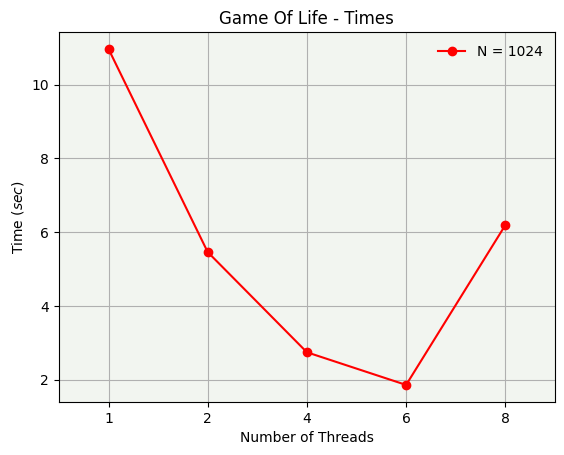
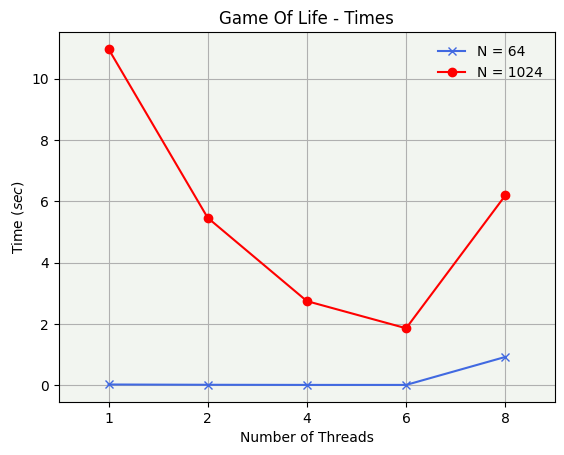
Added plots for FW, fixed plots for GameOfLife, fixed make_and_run.sh, makefile

diff --git a/1st_exec/src/Floyd_Warshall/plot_metrics.py b/1st_exec/src/Floyd_Warshall/plot_metrics.py
@@ -1,0 +1,117 @@
+#!/bin/python3
+
+import sys
+import os
+import numpy as np
+import matplotlib
+matplotlib.use('Agg')
+import matplotlib.pyplot as plt
+
+if len(sys.argv) < 2:
+    print("Usage: plot_metrics.py <input_directory_path>")
+    exit(-1)
+
+outDir = sys.argv[1]
+threads_confs = [1, 2, 4, 8, 16, 32, 64]
+array_sizes = [1024, 2048, 4096]
+block_size = [32, 64, 128, 256]
+implementations = {"fw": "", "fw_sr": "Recursive", "fw_tiled": "Tiled"}
+name = implementations[outDir.split("/")[1]]
+
+times = {}
+speedups = {}
+for n in array_sizes:
+    times[n] = {}
+    speedups[n] = {}
+    for b in block_size:
+        times[n][b] = []
+        speedups[n][b] = []
+
+
+
+for filename in os.listdir(outDir):
+    with open(os.path.join(outDir, filename), 'r') as fp:
+        line = fp.readline()
+
+        while line:
+            if line != "\n":
+                tokens = line.split(",")
+                threads = int(tokens[0].split(" ")[1])
+                array_size = int(tokens[1])
+                time = float(tokens[len(tokens)-1])
+                block = int(tokens[2])
+                # print (threads, array_size, block, time)
+                times[array_size][block].append(time)
+
+            line = fp.readline()
+
+for arr_size, b_size in times.items():
+    for key, val in b_size.items():
+        speedups[arr_size][key] = [val[0]/x for x in val]
+# print ("times: ", times)
+# print ("speedups: ", speedups)
+
+
+markers = ['x', 'o', '+', '*']
+colors = ["royalblue", "red", "darkgreen", "pink"]
+
+## PLOT TIMES
+x_Axis = np.array(threads_confs)
+y_Axis = times
+# print("x_Axis: ", x_Axis)
+# print("y_Axis: ", y_Axis)
+x_ticks = np.arange(0, len(x_Axis), 1)
+
+for tuple in y_Axis.items():
+    # print ("tuple[1] = ", tuple[1])
+    i = 0
+    fig, ax = plt.subplots()
+
+    for b_size, val in tuple[1].items():
+        # print("b_size: ", b_size, ", val:", val)
+
+        ax.grid(True)
+        ax.set_facecolor('#f2f5f0')
+        ax.set_xlabel("Number of Threads")
+        ax.set_ylabel("Time ($sec$)")
+        ax.set_xlim(-0.5, len(x_Axis) - 0.5)
+        ax.xaxis.set_ticks(x_ticks)
+        ax.set_xticklabels(x_Axis, rotation=0)
+
+        ax.plot(x_ticks, val, label="B = " + str(b_size), color=colors[i%len(colors)], marker=markers[i%len(markers)])
+        i = i + 1
+
+    ax.legend(frameon=True)
+    plt.title("Floyd-Warshall " + name + "- Time - Array Size: " + str(tuple[0]))
+    plt.savefig("plot_time_" + str(tuple[0]) + ".png",bbox_inches="tight")
+
+
+## PLOT SPEEDUP
+x_Axis = np.array(threads_confs)
+y_Axis = speedups
+# print("x_Axis: ", x_Axis)
+# print("y_Axis: ", y_Axis)
+x_ticks = np.arange(0, len(x_Axis), 1)
+
+for tuple in y_Axis.items():
+    # print ("tuple[1] = ", tuple[1])
+    i = 0
+    fig, ax = plt.subplots()
+
+    for b_size, val in tuple[1].items():
+        # print("b_size: ", b_size, ", val:", val)
+
+        ax.grid(True)
+        ax.set_facecolor('#f2f5f0')
+        ax.set_xlabel("Number of Threads")
+        ax.set_ylabel("Speedup (Serial Time / Parallel Time)")
+        ax.set_xlim(-0.5, len(x_Axis) - 0.5)
+        ax.xaxis.set_ticks(x_ticks)
+        ax.set_xticklabels(x_Axis, rotation=0)
+
+        ax.plot(x_ticks, val, label="B = " + str(b_size), color=colors[i%len(colors)], marker=markers[i%len(markers)])
+        i = i + 1
+
+    ax.legend(frameon=True)
+    plt.title("Floyd-Warshall " + name + " - Speedup - Array Size: " + str(tuple[0]))
+    plt.savefig("plot_speedup_" + str(tuple[0]) + ".png",bbox_inches="tight")

diff --git a/1st_exec/src/Floyd_Warshall/plot_metrics_fw.py b/1st_exec/src/Floyd_Warshall/plot_metrics_fw.py
@@ -11,14 +11,14 @@ if len(sys.argv) < 2:
     exit(-1)
 
 outFile = sys.argv[1]
-threads_confs = [1, 2, 4, 6, 8]
-array_sizes = [64, 1024, 4096]
+threads_confs = [1, 2, 4, 8, 16, 32, 64]
+array_sizes = [1024, 2048, 4096]
 
 times = {}
 speedups = {}
-for x in array_sizes:
-    times[x] = []
-    speedups[x] = []
+for n in array_sizes:
+    times[n] = []
+    speedups[n] = []
 
 
 with open(outFile) as fp:
@@ -26,19 +26,20 @@ with open(outFile) as fp:
 
     while line:
         if line != "\n":
-            tokens = line.split(" ")
-            threads = int(tokens[1])
-            array_size = int(tokens[4])
-            time = float(tokens[8])
-            # print (threads, array_size, time)
+            tokens = line.split(",")
+            threads = int(tokens[0].split(" ")[1])
+            array_size = int(tokens[1])
+            time = float(tokens[len(tokens)-1])
             times[array_size].append(time)
+            # print (threads, array_size, time)
 
         line = fp.readline()
 
 for key, val in times.items():
     speedups[key] = [val[0]/x for x in val]
-print ("times: ", times)
-print ("speedups: ", speedups)
+
+# print ("times: ", times)
+# print ("speedups: ", speedups)
 
 
 markers = ['x', 'o', '+']
@@ -47,14 +48,14 @@ colors = ["royalblue", "red", "darkgreen"]
 ## PLOT TIMES
 x_Axis = np.array(threads_confs)
 y_Axis = times
-print("x_Axis: ", x_Axis)
-print("y_Axis: ", y_Axis)
+# print("x_Axis: ", x_Axis)
+# print("y_Axis: ", y_Axis)
 
 x_ticks = np.arange(0, len(x_Axis), 1)
 i = 0
-fig, ax = plt.subplots()
-for tuple in y_Axis.items():
 
+for tuple in y_Axis.items():
+    fig, ax = plt.subplots()
     ax.grid(True)
     ax.set_facecolor('#f2f5f0')
     ax.set_xlabel("Number of Threads")
@@ -66,18 +67,18 @@ for tuple in y_Axis.items():
     # print(tuple)
     ax.plot(x_ticks, tuple[1], label="N = " + str(tuple[0]), color=colors[i%len(colors)], marker=markers[i%len(markers)])
     i = i + 1
-    ax.legend(frameon=False)
-    plt.title("Game Of Life - Times")
+    ax.legend(frameon=True)
+    plt.title("Floyd-Warshall Classic - Time -  Array Size: " + str(tuple[0]))
     plt.savefig("plot_time_" + str(tuple[0]) + ".png",bbox_inches="tight")
 
 
 
 
-## PLOT SPEEDUP
+# ## PLOT SPEEDUP
 x_Axis = np.array(threads_confs)
 y_Axis = speedups
-print("x_Axis: ", x_Axis)
-print("y_Axis: ", y_Axis)
+# print("x_Axis: ", x_Axis)
+# print("y_Axis: ", y_Axis)
 
 x_ticks = np.arange(0, len(x_Axis), 1)
 i = 0
@@ -95,6 +96,6 @@ for tuple in y_Axis.items():
     # print(tuple)
     ax.plot(x_ticks, tuple[1], label="N = " + str(tuple[0]), color=colors[i%len(colors)], marker=markers[i%len(markers)])
     i = i + 1
-    ax.legend(frameon=False)
-    plt.title("Game Of Life - Speedup")
+    ax.legend(frameon=True)
+    plt.title("Floyd-Warshall Classic - Speedup -  Array Size: " + str(tuple[0]))
     plt.savefig("plot_speedup_" + str(tuple[0]) + ".png",bbox_inches="tight")

diff --git a/1st_exec/src/Game_Of_Life/plot_metrics.py b/1st_exec/src/Game_Of_Life/plot_metrics.py
@@ -7,7 +7,7 @@ matplotlib.use('Agg')
 import matplotlib.pyplot as plt
 
 if len(sys.argv) < 2:
-    print("Usage: plot_metrics.py <input_file>")
+    print("Usage: plot_metrics.py <input_file_path>")
     exit(-1)
 
 outFile = sys.argv[1]
@@ -36,7 +36,7 @@ with open(outFile) as fp:
         line = fp.readline()
 
 for key, val in times.items():
-    speedups[key] = [x/val[0] for x in val]
+    speedups[key] = [val[0]/x for x in val]
 print ("times: ", times)
 print ("speedups: ", speedups)
 
@@ -91,7 +91,7 @@ ax.set_xticklabels(x_Axis, rotation=0)
 
 i = 0
 for tuple in y_Axis.items():
-    # print(tuple)
+    print(tuple)
     ax.plot(x_ticks, tuple[1], label="N = " + str(tuple[0]), color=colors[i%len(colors)], marker=markers[i%len(markers)])
     i = i + 1
 

diff --git a/1st_exec/README.md b/1st_exec/README.md
@@ -9,7 +9,7 @@ From the local machine, this command:
 
 From the `1st_exec` directory on local to transfer the `1st_exec` directory on remote:
 ```
-rsync -vr --rsh "ssh parlab07@orion.cslab.ece.ntua.gr ssh" . parlab07@scirouter.cslab.ece.ntua.gr:/home/parallel/parlab07/a1/
+rsync -vr --delete --rsh "ssh parlab07@orion.cslab.ece.ntua.gr ssh" . parlab07@scirouter.cslab.ece.ntua.gr:/home/parallel/parlab07/a1/
 ```
 
 ### Scirouter -> Local (Without Proxy)
